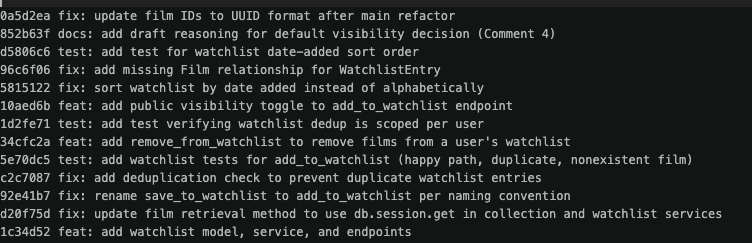
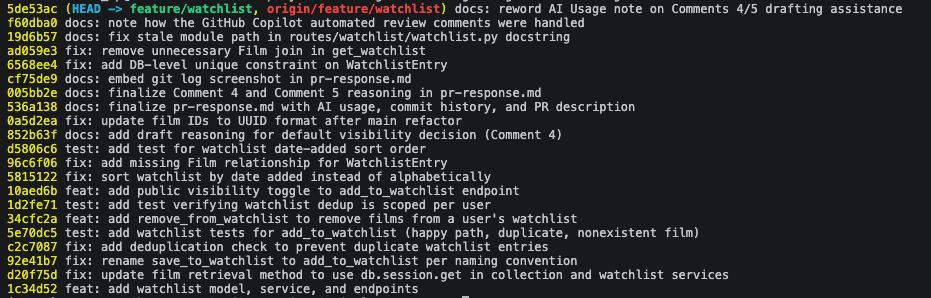
docs: update commit-history screenshot to current HEAD
Notes in pr-response.md that this commit itself trails the captured
screenshot, since a commit can't include itself in its own log output.

diff --git a/pr-response.md b/pr-response.md
@@ -84,6 +84,8 @@ GitHub auto-requested `copilot-pull-request-reviewer` on this PR, which left 5 c
 
 ![git log --oneline showing conventional commits with no merge commits](screenshots/commit-history.png)
 
+*Captured before this doc-update commit — the commit that adds this screenshot necessarily can't appear inside its own screenshot.*
+
 ## PR Description
 
 **What this feature does:** Adds a watchlist to CineLog so users can save films they want to watch later, separate from their collection of films they've already watched. It supports adding a film (`POST /watchlist/<user_id>/add`), viewing a user's watchlist (`GET /watchlist/<user_id>`), and removing a film (`DELETE /watchlist/<user_id>/remove`). Adding the same film twice is rejected rather than creating a duplicate entry, and adding a nonexistent film is rejected with a clear error instead of a database crash.
